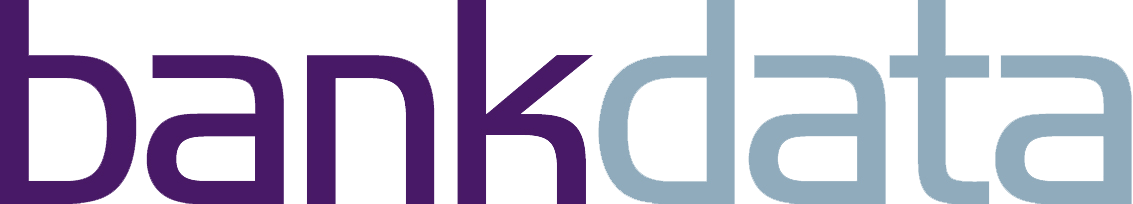
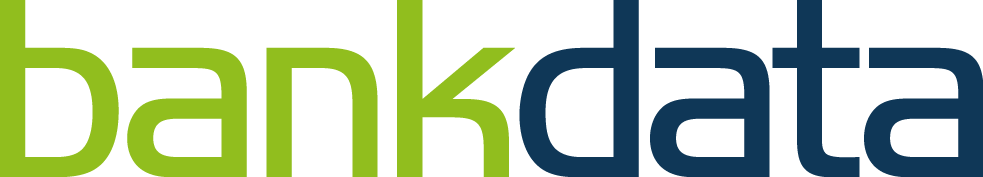
Development (#33)
* Bankdata new logo

* seed file now works by find_or_initialize_by instead of Create. Also updated datsw domain info

* fixed syntax error

diff --git a/ruslingdk/db/seeds/faq/studiet.html b/ruslingdk/db/seeds/faq/studiet.html
@@ -4,7 +4,7 @@
 <p>Jeres vejleder skal kun vejlede jer, og ikke fortælle jer hvad de korrekte valg er. I skal bruge jeres vejleder til at få en fornuftig diskussion omkring rapport-valg i gang, så I i fællesskab kan komme frem til de bedste valg.</p>
 <p>Vejlederen kan også hjælpe jer i den rigtige retning med kildesøgning/materialer, hvis I sidder fast og ikke ved hvor I skal lede.</p>
 <h5>Hvem kan jeg spørge hvis jeg er i tvivl om noget på studiet?</h5>
-<p>Fagligt: Jeres forelæsere<br />Gruppe/projekt: Din vejleder<br />Andet: Jeres studiesekretær, eller jeres studievejledere (Anders Brams, Tobias Jørgensen).</p>
+<p>Fagligt: Jeres forelæsere<br />Gruppe/projekt: Din vejleder<br />Andet: Jeres studiesekretær, eller jeres studievejledere (Anders Brams, Tobias Jørgensen).<br />Se hvordan <a href="/kontakter/" target="_blank" rel="noopener">her</a></p>
 <h5>Hvordan løber studiet?</h5>
 <p>Studiet foregår med 30 ECTS per semester, hvoraf 15 ECTS er projekt og 15 ECTS er kurser. Første semester er dog undtaget, da der her er 3 kurser og 2 projekter (hhv. 5 og 10 ECTS). Projekterne bliver arbejdet på i grupper.</p>
 <h5>Hvem danner grupperne?</h5>

diff --git a/ruslingdk/db/seeds.rb b/ruslingdk/db/seeds.rb
@@ -78,22 +78,64 @@ def create_datsw(domain)
   datswmenu.save
 
   #Contacts
-  tobias = Contact.create(educational_domain: datswdomain, name: "Tobias Palludan", email: "tpallu16@student.aau.dk", number: "20 58 21 14", description: "Tobias er ansvarlig for studiestartsperioden. Er du i tvivl om noget, kan du starte med at skrive til Tobias - så finder han den rette person til dig.", image: "contacts/tobiaspalludan.jpg")
-  diana = Contact.create(educational_domain: datswdomain, name: "Diana Wolff Bie", email: "dwb@staff.aau.dk", description: "Diana er studiesekretæren, og står for mange af de praktiske ting på jeres uddannelse. I vil høre mere om, hvordan hun kan hjælpe, til studiestarten.", image: "contacts/dianawolffbie.jpg")
-  brams = Contact.create(educational_domain: datswdomain, name: "Anders Brams", email: "studievejl@cs.aau.dk", description: "Anders er tutor og studievejleder, og ham og hans kolleger kan hjælpe med dispensationer, eksamensregler, studiemiljø, og andre emner i den boldgade.", image: "contacts/andersbrams.jpg")
-  kurt = Contact.create(educational_domain: datswdomain, name: "Kurt Nørmark", email: "normark@cs.aau.dk", description: "Du kan skrive til Kurt hvis du har spørgsmål vedr. alt der har med studiet, grupper og projekter at gøre.", image: "contacts/kurt.jpg")
+  tobias = Contact.find_or_initialize_by(educational_domain: datswdomain, name: "Tobias Palludan")
+  tobias.email = "tpallu16@student.aau.dk"
+  tobias.number = "20 58 21 14"
+  tobias.description = "Tobias er ansvarlig for studiestartsperioden. Er du i tvivl om noget, kan du starte med at skrive til Tobias - så finder han den rette person til dig."
+  tobias.image = "contacts/tobiaspalludan.jpg"
+  tobias.save
+
+  diana = Contact.find_or_initialize_by(educational_domain: datswdomain, name: "Diana Wolff Bie")
+  diana.email = "dwb@staff.aau.dk"
+  diana.description = "Diana er studiesekretæren, og står for mange af de praktiske ting på jeres uddannelse. I vil høre mere om, hvordan hun kan hjælpe, til studiestarten."
+  diana.image = "contacts/dianawolffbie.jpg"
+  diana.save
+
+  brams = Contact.find_or_initialize_by(educational_domain: datswdomain, name: "Anders Brams")
+  brams.email = "studievejl@cs.aau.dk"
+  brams.description = "Anders er tutor og studievejleder, og ham og hans kolleger kan hjælpe med dispensationer, eksamensregler, studiemiljø, og andre emner i den boldgade."
+  brams.image = "contacts/andersbrams.jpg"
+  brams.save
+
+  kurt = Contact.find_or_initialize_by(educational_domain: datswdomain, name: "Kurt Nørmark")
+  kurt.email = "normark@cs.aau.dk"
+  kurt.description = "Du kan skrive til Kurt hvis du har spørgsmål vedr. alt der har med studiet, grupper og projekter at gøre."
+  kurt.image = "contacts/kurt.jpg"
+  kurt.save
+
   #anders = Contact.create(educational_domain: datswdomain, name: "Anders Madsen", email: "amads15@student.aau.dk", number: "31 61 79 58", description: "Anders er toxic af!", image: "http://placekitten.com/1200/500")
 
   #Sponsors
-  sponsor1 = Sponsor.create(educational_domain: datswdomain, name: "progras", image: "sponsors/progras.png")
-  sponsor2 = Sponsor.create(educational_domain: datswdomain, name: "prosa", image: "sponsors/prosa.png")
-  sponsor3 = Sponsor.create(educational_domain: datswdomain, name: "cego", image: "sponsors/cego.png")
-  sponsor4 = Sponsor.create(educational_domain: datswdomain, name: "bankdata", image: "sponsors/bankdata.png")
-  sponsor5 = Sponsor.create(educational_domain: datswdomain, name: "accenture", image: "sponsors/accenture.png")
+  sponsor_progras = Sponsor.find_or_initialize_by(educational_domain: datswdomain, name: "progras")
+  sponsor_progras.image = "sponsors/progras.png"
+  sponsor_progras.save
 
-  pa = Page.create(educational_domain: datswdomain, title: 'Datalogi og Software', content_header: 'Velkommen til Rusling.dk', content: 'Vi gør alt hvad vi kan for at I kan få en fantastisk start på jeres studie! Her på siden har vi forsøgt at samle alle de informationer I kunne få brug for!<br><em>&ndash; Tutorerne</em>', view_file: "index")
+  sponsor_prosa = Sponsor.find_or_initialize_by(educational_domain: datswdomain, name: "prosa")
+  sponsor_prosa.image = "sponsors/prosa.png"
+  sponsor_prosa.save
 
-  faq_page = Page.create(slug: "faq", educational_domain: datswdomain, title: 'Vigtig viden (FAQ)', content_header: 'Her er svarene på alle jeres spørgmål!', view_file:"accordion")
+  sponsor_cego = Sponsor.find_or_initialize_by(educational_domain: datswdomain, name: "cego")
+  sponsor_cego.image = "sponsors/cego.png"
+  sponsor_cego.save
+
+  sponsor_bankdata = Sponsor.find_or_initialize_by(educational_domain: datswdomain, name: "bankdata")
+  sponsor_bankdata.image = "sponsors/bankdata.png"
+  sponsor_bankdata.save
+
+  sponsor_accenture = Sponsor.find_or_initialize_by(educational_domain: datswdomain, name: "accenture")
+  sponsor_accenture.image = "sponsors/accenture.png"
+  sponsor_accenture.save
+
+  pa = Page.find_or_initialize_by(educational_domain: datswdomain, title: 'Datalogi og Software')
+  pa.content_header = 'Velkommen til Rusling.dk'
+  pa.content = 'Vi gør alt hvad vi kan for at I kan få en fantastisk start på jeres studie! Her på siden har vi forsøgt at samle alle de informationer I kunne få brug for!<br><em>&ndash; Tutorerne</em>'
+  pa.view_file =  "index"
+  pa.save
+
+  faq_page = Page.find_or_initialize_by(slug: "faq", educational_domain: datswdomain)
+  faq_page.title = 'Vigtig viden (FAQ)'
+  faq_page.content_header = 'Her er svarene på alle jeres spørgmål!'
+  faq_page.view_file = "accordion"
   faq_page.accordion = [
     {
       "title" => "De første par dage",
@@ -114,7 +156,11 @@ def create_datsw(domain)
   ]
   faq_page.save
 
-  info_page = Page.create(slug: "info", educational_domain: datswdomain, title: 'Information', content_header: 'Vi har samlet så mange informationer som mulig!', content: 'Hvis I synes der mangler noget, må I gerne sige til!', view_file:"accordion")
+  info_page = Page.find_or_initialize_by(slug: "info", educational_domain: datswdomain)
+  info_page.title = 'Information'
+  info_page.content_header = 'Vi har samlet så mange informationer som mulig!'
+  info_page.content = 'Hvis I synes der mangler noget, må I gerne sige til!'
+  info_page.view_file = "accordion"
   info_page.accordion = [
     {
       "title" => "Studiestartsdagen",
@@ -139,7 +185,10 @@ def create_datsw(domain)
   ]
   info_page.save
 
-  howto_page = Page.create(slug: "howto", educational_domain: datswdomain, title: 'Guides', content_header: 'Guides til alt!', view_file:"accordion")
+  howto_page = Page.find_or_initialize_by(slug: "howto", educational_domain: datswdomain)
+  howto_page.title = 'Guides'
+  howto_page.content_header = 'Guides til alt!'
+  howto_page.view_file = "accordion"
   howto_page.accordion = [
     {
       "title" => "LaTeX",
@@ -172,17 +221,76 @@ def create_datsw(domain)
   ]
   howto_page.save
 
-  contacts_page = Page.create(slug: "kontakter", educational_domain: datswdomain, title: 'Kontakt', content_header: 'Her er alle de mennesker der er vigtige!', content:'mouseover(tap) for kontakt information.', view_file:"contacts")
+  contacts_page = Page.find_or_initialize_by(slug: "kontakter", educational_domain: datswdomain)
+  contacts_page.title = 'Kontakt'
+  contacts_page.content_header = 'Her er alle de mennesker der er vigtige!'
+  contacts_page.content = 'mouseover(tap) for kontakt information.'
+  contacts_page.view_file = "contacts"
+  contacts_page.save
 
-  advice_page = Page.create(slug: "advice", educational_domain: datswdomain, title: 'Gode råd', content: File.read(__dir__ + "/seeds/advice.html"), content_header: "Herunder har vi samlet er par gode råd fra ældre studerende på datalogi og software", view_file:"show")
+  advice_page = Page.find_or_initialize_by(slug: "advice", educational_domain: datswdomain)
+  advice_page.title = 'Gode råd'
+  advice_page.content = File.read(__dir__ + "/seeds/advice.html")
+  advice_page.content_header = "Herunder har vi samlet er par gode råd fra ældre studerende på datalogi og software"
+  advice_page.view_file = "show"
+  advice_page.save
 
-  ev1datsw = Event.create(title: "Studiestartsdagen", educational_domain: datswdomain, description: "<h5>Klar, parat, studiestart!</h5><p>Vi glæder os utrolig meget til at tage imod jer!<br />Mere info om dagen kan I finde <a href=\"/info/\">her</a> under overskriften \"Studiestartsdagen\"</p>", location: "Honnørkajen", lat: 57.0502987, lng: 9.9229435, begin_at: "2018-09-03 08:30:00")
-  #ev2datsw = Event.create(title: "PROSA Event", educational_domain: datswdomain, description: "Noget prosa arrangerer", location: "CS!", lat: 57.0123924, lng: 9.991556199999991, begin_at: "2018-05-18 14:30:00")
-  #ev3datsw = Event.create(title: "IDA Event", educational_domain: datswdomain, description: "Noget ida arrangerer", location: "CS!", lat: 57.0123924, lng: 9.991556199999991, begin_at: "2018-08-20 14:30:00")
-  #ev4datsw = Event.create(title: "Studentersamfundet Event", educational_domain: datswdomain, description: "Noget studentersamfundet arrangerer", location: "CS!", lat: 57.0123924, lng: 9.991556199999991, begin_at: "2018-05-22 14:30:00")
-  #ev4datsw = Event.create(title: "Ruskorps Event2", educational_domain: datswdomain, description: "PUBCRAAAAAWL!", location: "CS!", lat: 57.0123924, lng: 9.991556199999991, begin_at: "2018-06-23 14:30:00")
-  #ev4datsw = Event.create(title: "Ruskorps Event3", educational_domain: datswdomain, description: "Ruskorpset holder fedt LAN!", location: "CS!", lat: 57.0123924, lng: 9.991556199999991, begin_at: "2018-08-06 14:30:00")
+  studiestartsdag = Event.find_or_initialize_by(title: "Studiestartsdagen", educational_domain: datswdomain)
+  studiestartsdag.description = "<h5>Klar, parat, studiestart!</h5><p>Vi glæder os utrolig meget til at tage imod jer!<br />Mere info om dagen kan I finde <a href=\"/info/\">her</a> under overskriften \"Studiestartsdagen\"</p>"
+  studiestartsdag.location = "Honnørkajen" 
+  studiestartsdag.lat = 57.0502987
+  studiestartsdag.lng = 9.9229435
+  studiestartsdag.begin_at = "2018-09-03 08:30:00"
+  studiestartsdag.save
 
+  pubcrawl = Event.find_or_initialize_by(title: "Pubcrawl", educational_domain: datswdomain)
+  pubcrawl.description = ""
+  pubcrawl.location = "Honnørkajen" 
+  pubcrawl.lat = 57.0502987
+  pubcrawl.lng = 9.9229435
+  pubcrawl.begin_at = "2018-09-12 17:30:00"
+  pubcrawl.save
+
+  boardgame = Event.find_or_initialize_by(title: "Brætspilsaften", educational_domain: datswdomain)
+  boardgame.description = "Prosa inviterer til brætspilsaften"
+  boardgame.location = "Dice'n'Drinks"
+  boardgame.lat = 57.0465307
+  boardgame.lng = 9.9165076
+  boardgame.begin_at = "2018-09-17 16:30:00"
+  boardgame.savedic
+
+  knoldbold = Event.find_or_initialize_by(title: "Knoldbold", educational_domain: datswdomain)
+  knoldbold.description = "Der bliver spillet 4 hold 2x(5v5) i en cirkulær arena i deciplinen Knoldbold"
+  knoldbold.location = "Fjordmarken" 
+  knoldbold.lat = 57.055934
+  knoldbold.lng = 9.906076
+  knoldbold.begin_at = "2018-09-20 14:30:00"
+  knoldbold.save
+
+  ruskursus = Event.find_or_initialize_by(title: "Ruskursus", educational_domain: datswdomain)
+  ruskursus.description = ""
+  ruskursus.location = "Kvickly Vestbyen" 
+  ruskursus.lat = 57.054528
+  ruskursus.lng = 9.906408
+  ruskursus.begin_at = "2018-10-03 08:30:00"
+  ruskursus.save
+
+  latex = Event.find_or_initialize_by(title: "LaTeX kursus", educational_domain: datswdomain)
+  latex.description = "PROSA inviterer på gratis LaTeX kursus! Kun for jer! Fordi i er nice!"
+  latex.location = "AUD 7" 
+  latex.lat = 57.053007
+  latex.lng = 9.912546
+  latex.begin_at = "2018-10-11 16:30:00"
+  latex.save
+
+  ruslan = Event.find_or_initialize_by(title: "Ruslan", educational_domain: datswdomain)
+  ruslan.description = "Vi skal spille computer... og brætspil... og Beat Saber!"
+  ruslan.location = "Cassiopeia" 
+  ruslan.lat = 57.0123062
+  ruslan.lng = 9.9889782
+  ruslan.begin_at = "2018-10-19 17:30:00"
+  ruslan.save
+  
   datswdomain.update(primary_menu: datswmenu, default_page: pa)
 
 
@@ -957,17 +1065,48 @@ def create_baitixdinf(domain)
   baitixdinfmenu.save
 
   #Contacts
-  contact1 = Contact.create(educational_domain: baitixdinfdomain, name: "Anders Høgh", email: "ahha15@student.aau.dk", number: "31 31 78 28", description: "Anders er jeres overinstruktør. Det er ham som har det overordnede ansvar for jeres studiestartsperiode. Er du i tvivl om noget så kontakt ham gerne!", image: "contacts/andershogh.jpg")
-  contact2 = Contact.create(educational_domain: baitixdinfdomain, name: "Studiesekretær", description: "Kontaktinformationer kommer", image: "contacts/placeholder.jpg")
-  contact3 = Contact.create(educational_domain: baitixdinfdomain, name: "Anders Brams", email: "studievejl@cs.aau.dk", description: "Anders er tutor og studievejleder, og ham og hans kolleger kan hjælpe med dispensationer, eksamensregler, studiemiljø, og andre emner i den boldgade.", image: "contacts/andersbrams.jpg")
-  contact4 = Contact.create(educational_domain: baitixdinfdomain, name: "Pernille Aagaard Madsen", email: "pama16@student.aau.dk", description: "Pernille er én af de 4 tutorinstruktører tilknytte din studiestart. Pernille læser Informatik på 5. semester, og kan svare på diverse spørgsmål ang. uddannelserne BaIT/ INF. ", image: "contacts/placeholder.jpg")
+  contact1 = Contact.find_or_initialize_by(educational_domain: baitixdinfdomain, name: "Anders Høgh")
+  contact1.email = "ahha15@student.aau.dk"
+  contact1.number = "31 31 78 28" 
+  contact1.description = "Anders er jeres overinstruktør. Det er ham som har det overordnede ansvar for jeres studiestartsperiode. Er du i tvivl om noget så kontakt ham gerne!"
+  contact1.image = "contacts/andershogh.jpg"
+  contact1.save
+
+  contact2 = Contact.find_or_initialize_by(educational_domain: baitixdinfdomain, name: "Studiesekretær")
+  contact2.description = "Kontaktinformationer kommer"
+  contact2.image = "contacts/placeholder.jpg"
+  contact2.save
+
+  contact3 = Contact.find_or_initialize_by(educational_domain: baitixdinfdomain, name: "Anders Brams")
+  contact3.email = "studievejl@cs.aau.dk"
+  contact3.description = "Anders er tutor og studievejleder, og ham og hans kolleger kan hjælpe med dispensationer, eksamensregler, studiemiljø, og andre emner i den boldgade."
+  contact3.image = "contacts/andersbrams.jpg"
+  contact3.save
+
+  contact4 = Contact.find_or_initialize_by(educational_domain: baitixdinfdomain, name: "Pernille Aagaard Madsen")
+  contact4.email = "pama16@student.aau.dk"
+  contact4.description = "Pernille er én af de 4 tutorinstruktører tilknytte din studiestart. Pernille læser Informatik på 5. semester, og kan svare på diverse spørgsmål ang. uddannelserne BaIT/ INF. "
+  contact4.image = "contacts/placeholder.jpg"
+  contact4.save
+
 
   #Sponsors
-  sponsor1 = Sponsor.create(educational_domain: baitixdinfdomain, name: "prosa", image: "sponsors/prosa.png")
+  sponsor1 = Sponsor.find_or_initialize_by(educational_domain: baitixdinfdomain, name: "prosa")
+  sponsor1.image = "sponsors/prosa.png"
+  sponsor1.save
 
-  pa_baitixdinf = Page.create(educational_domain: baitixdinfdomain, title: 'Informationsteknologi, Interaktionsdesign og Informatik', content_header: 'Velkommen til Rusling.dk', content: 'Vi gør alt hvad vi kan for at I kan få en fantastisk start på jeres studie! Her på siden har vi forsøgt at samle alle de informationer I kunne få brug for!<br><em>&ndash; Tutorerne</em>', view_file: "index")
 
-  faq_page = Page.create(slug: "information", educational_domain: baitixdinfdomain, title: 'Information', content_header: 'Alt (..næsten) der er værd at vide om studiestarten!', content: 'Mangler der noget du vil vide? Skriv til ahha15@student.aau.dk med spørgsmålet', view_file:"accordion")
+  pa_baitixdinf = Page.find_or_initialize_by(educational_domain: baitixdinfdomain, title: 'Informationsteknologi, Interaktionsdesign og Informatik')
+  pa_baitixdinf.content_header = 'Velkommen til Rusling.dk'
+  pa_baitixdinf.content = 'Vi gør alt hvad vi kan for at I kan få en fantastisk start på jeres studie! Her på siden har vi forsøgt at samle alle de informationer I kunne få brug for!<br><em>&ndash; Tutorerne</em>'
+  pa_baitixdinf.view_file = "index"
+  pa_baitixdinf.save
+
+  faq_page = Page.find_or_initialize_by(slug: "information", educational_domain: baitixdinfdomain)
+  faq_page.title = 'Information'
+  faq_page.content_header = 'Alt (..næsten) der er værd at vide om studiestarten!'
+  faq_page.content = 'Mangler der noget du vil vide? Skriv til ahha15@student.aau.dk med spørgsmålet'
+  faq_page.view_file = "accordion"
   faq_page.accordion = [
     {
       "title" => "Studiestartsdagen",
@@ -988,7 +1127,10 @@ def create_baitixdinf(domain)
   ]
   faq_page.save
 
-  howto_page = Page.create(slug: "guides", educational_domain: baitixdinfdomain, title: 'Guides', content_header: 'Guides til alt!', view_file:"accordion")
+  howto_page = Page.find_or_initialize_by(slug: "guides", educational_domain: baitixdinfdomain)
+  howto_page.title = 'Guides'
+  howto_page.content_header = 'Guides til alt!'
+  howto_page.view_file = "accordion"
   howto_page.accordion = [
     {
       "title" => "LaTeX",
@@ -1025,9 +1167,20 @@ def create_baitixdinf(domain)
   ]
   howto_page.save
 
-  contacts_page = Page.create(slug: "kontakter", educational_domain: baitixdinfdomain, title: 'Kontakt', content_header: 'Hvem skal du have fat i for at få svar på dit spørgsmål?', content:'Hold musen over billedet for at se kontaktoplysninger på personen!', view_file:"contacts")
+  contacts_page = Page.find_or_initialize_by(slug: "kontakter", educational_domain: baitixdinfdomain)
+  contacts_page.title = 'Kontakt'
+  contacts_page.content_header = 'Hvem skal du have fat i for at få svar på dit spørgsmål?'
+  contacts_page.content = 'Hold musen over billedet for at se kontaktoplysninger på personen!'
+  contacts_page.view_file = "contacts"
+  contacts_page.save
 
-  ev1baitixdinf = Event.create(title: "Studiestartsdag", educational_domain: baitixdinfdomain, description: "<p>Den store dag! Du starter på dit studie. Husk at vi mødes på Honnørkajen. Se kortet hvis du er i tvivl om hvor det er.</p>", location: "Honnørkajen", lat: 57.0502987, lng: 9.9229435, begin_at: "2018-09-03 08:30:00")
+  ev1baitixdinf = Event.find_or_initialize_by(title: "Studiestartsdag", educational_domain: baitixdinfdomain)
+  ev1baitixdinf.description = "<p>Den store dag! Du starter på dit studie. Husk at vi mødes på Honnørkajen. Se kortet hvis du er i tvivl om hvor det er.</p>"
+  ev1baitixdinf.location = "Honnørkajen"
+  ev1baitixdinf.lat = 57.0502987
+  ev1baitixdinf.lng = 9.9229435
+  ev1baitixdinf.begin_at = "2018-09-03 08:30:00"
+  ev1baitixdinf.save
 
   baitixdinfdomain.update(primary_menu: baitixdinfmenu, default_page: pa_baitixdinf)
 
@@ -1040,7 +1193,7 @@ if Rails.env.production?
 
   #Create domains
   #create_datsw('datsw.rusling.dk')
-  create_baitixdinf('bait-ixd-inf.rusling.dk')
+  #create_baitixdinf('bait-ixd-inf.rusling.dk')
 end
 
 if Rails.env.development?
